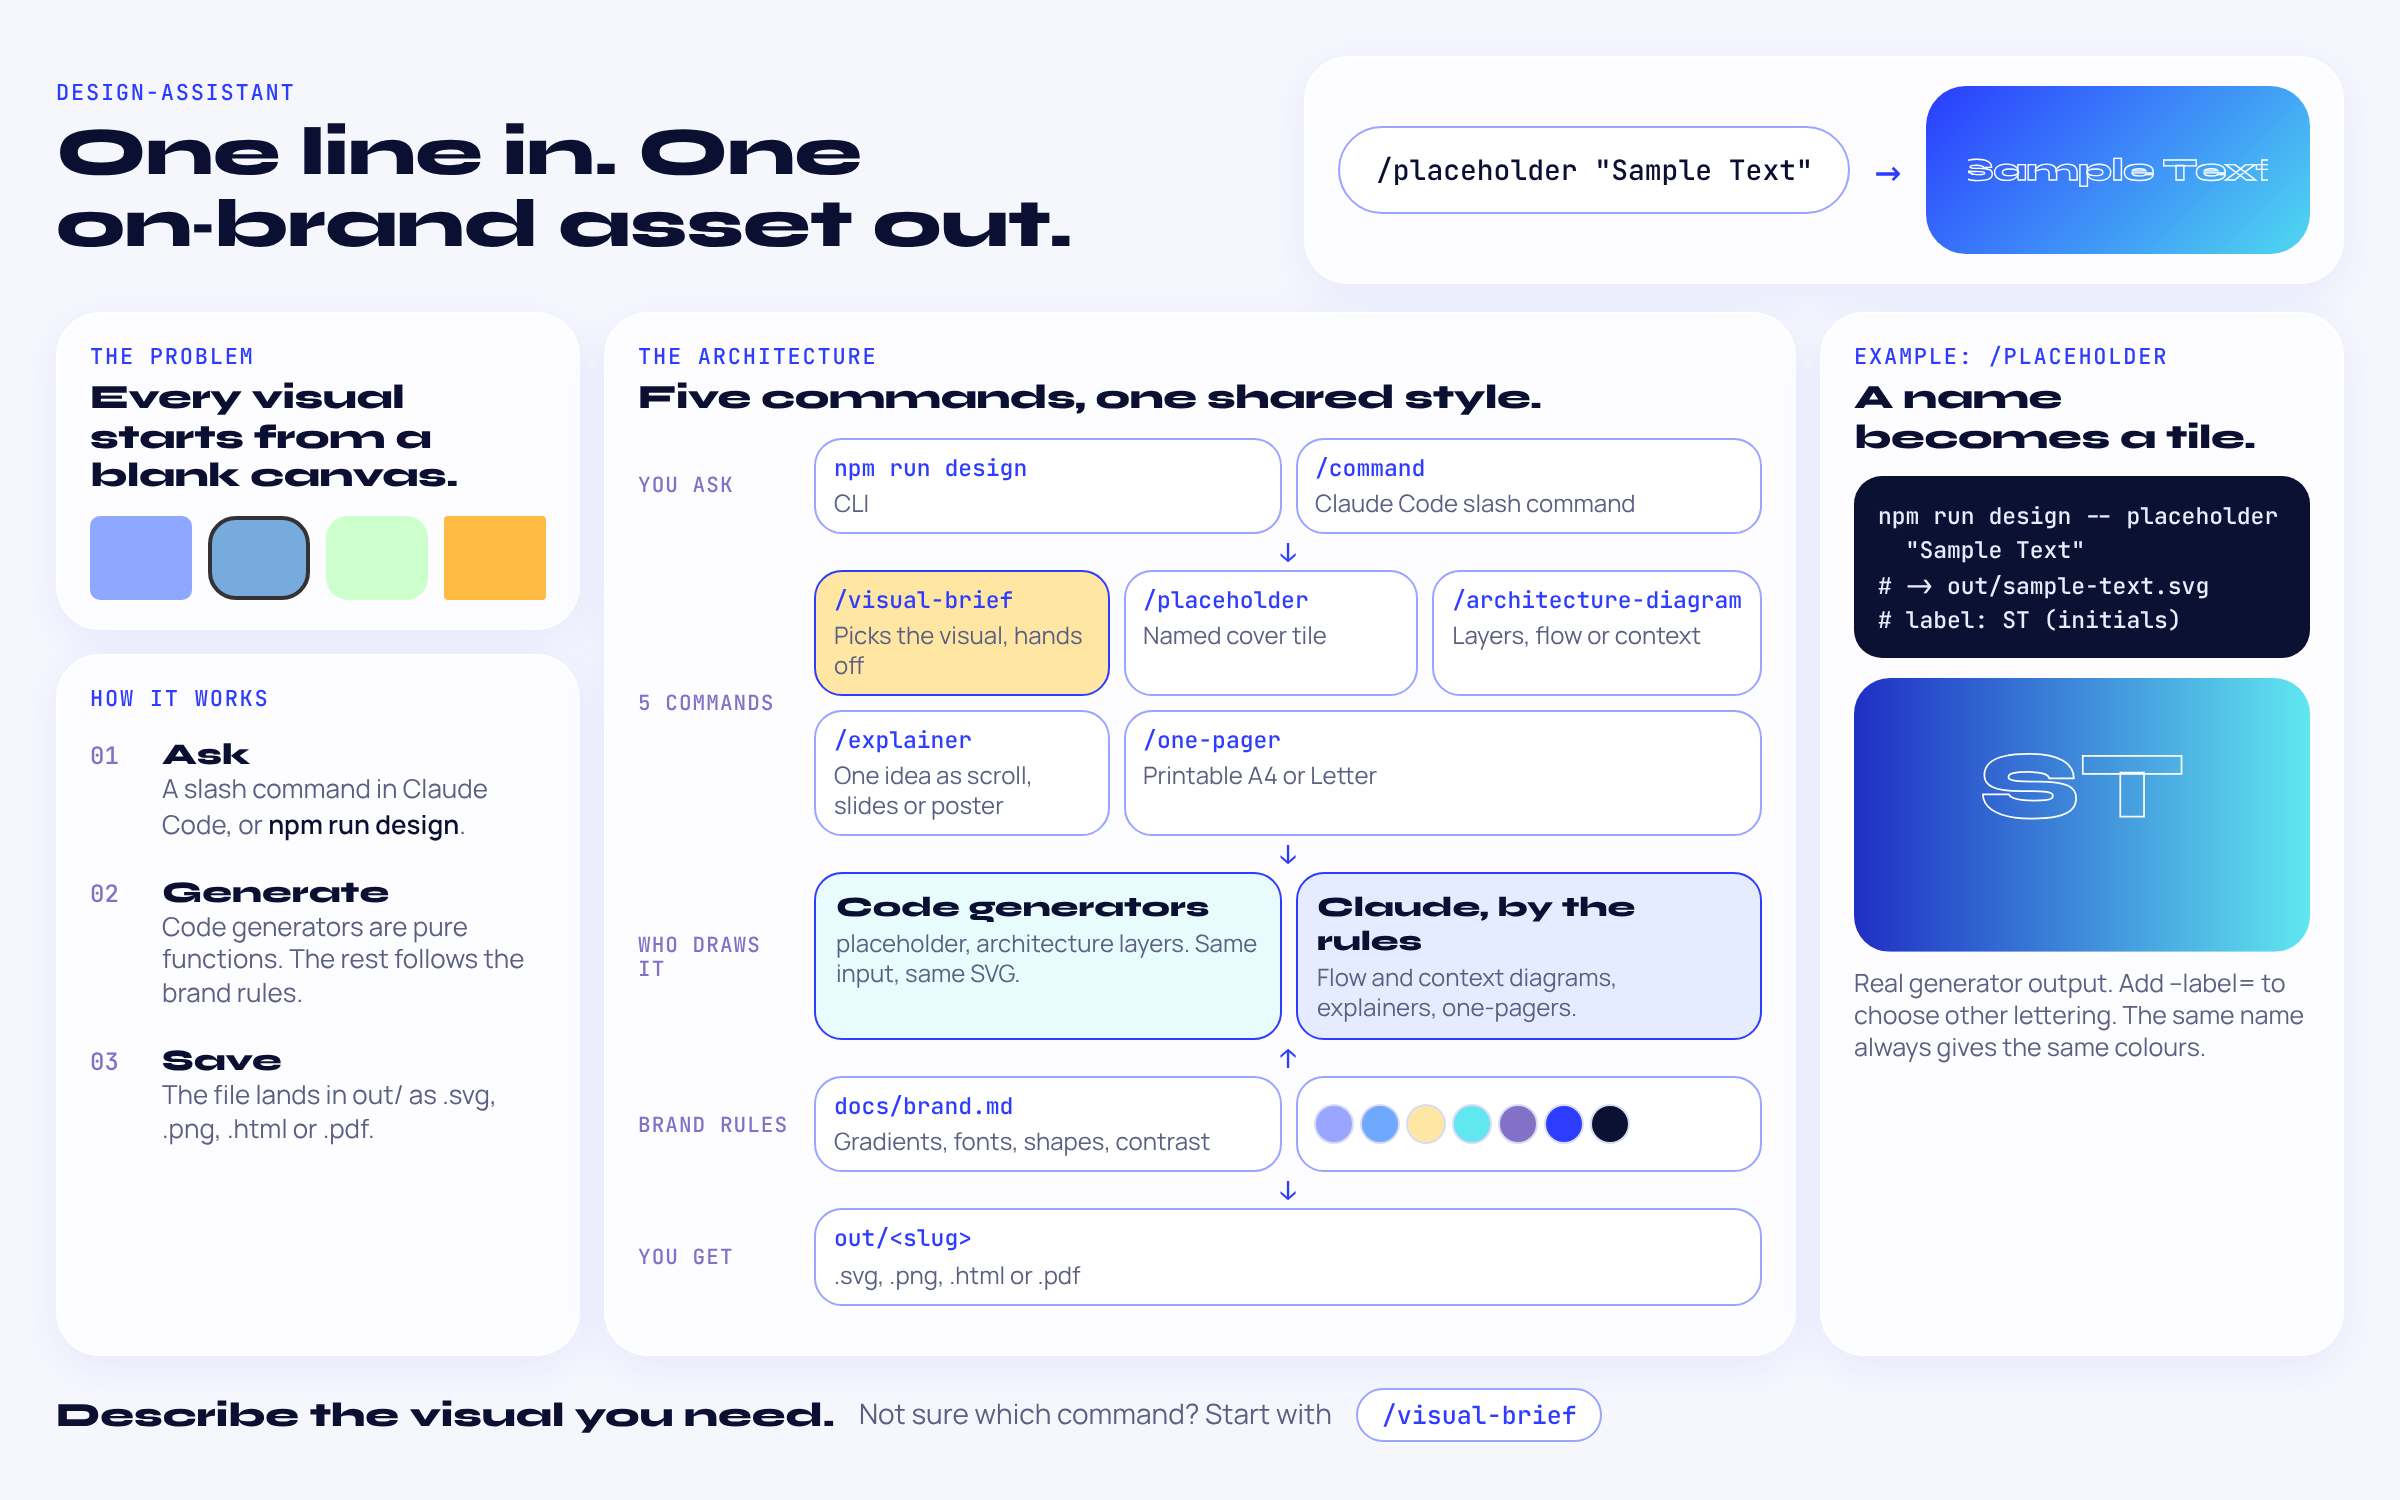
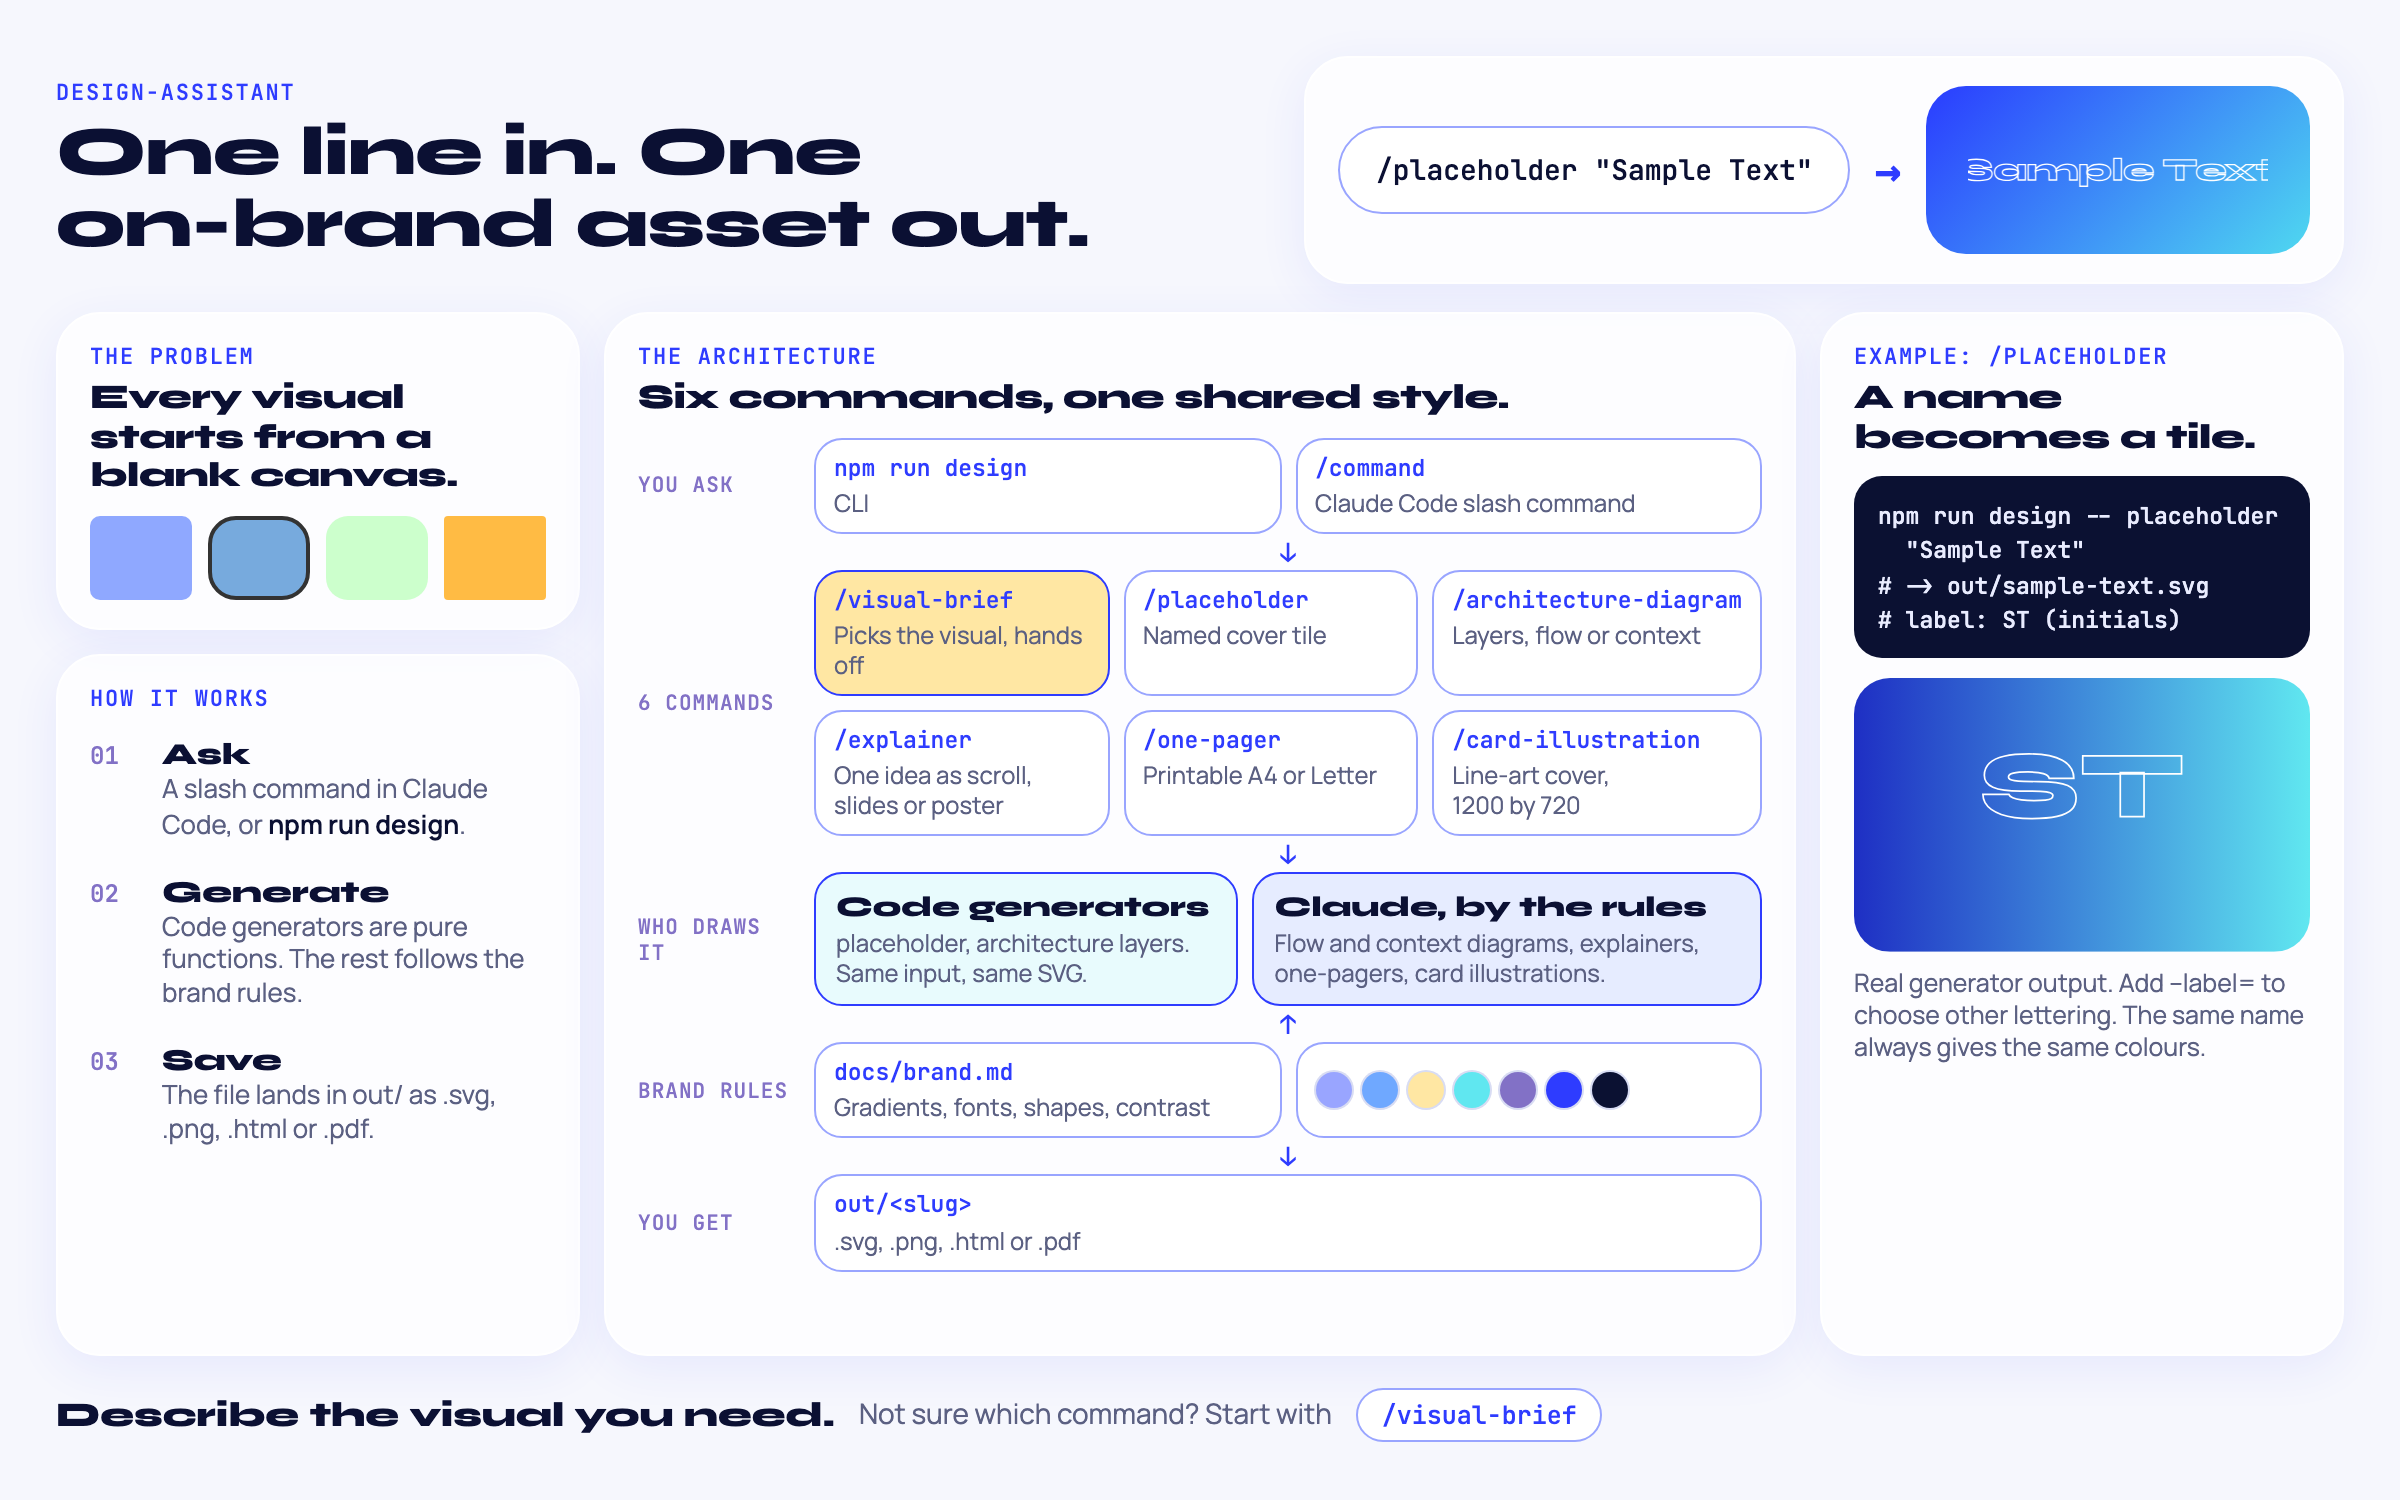
Docs: six commands, with /card-illustration on the card and the explainer
The card, its PNG and the explainer page said five commands and left out
/card-illustration. Both pages now show all six and list card
illustrations among what Claude draws by the rules. The explainer's lead
no longer says the tool draws in the portfolio's look, since the site has
its own design system.

README: the card's alt text says six, the Generators section is now
Commands with a section each for /visual-brief, /explainer and
/one-pager, and the Templates section names every folder in templates/.

diff --git a/docs/design-assistant-explainer.html b/docs/design-assistant-explainer.html
@@ -30,7 +30,7 @@ code{font:500 14px/1.5 'JetBrains Mono',monospace;background:#0b1132;color:#e9ec
 .ex{display:grid;grid-template-columns:1.1fr 1fr;gap:24px;align-items:center;margin-top:36px}
 .chips{display:flex;flex-wrap:wrap;gap:10px;margin-top:30px}
 .chips span{font:500 14px 'JetBrains Mono',monospace;background:#fff;border:1.5px solid var(--peri);border-radius:999px;padding:8px 16px}
-.row.five{display:grid;grid-template-columns:repeat(5,1fr)}
+.row.six{display:grid;grid-template-columns:repeat(3,1fr)}
 .ex>svg{border-radius:30px}
 .arch{margin-top:36px;display:grid;gap:12px}
 .layer{display:grid;grid-template-columns:150px 1fr;gap:16px;align-items:center;padding:18px 22px}
@@ -46,8 +46,8 @@ code{font:500 14px/1.5 'JetBrains Mono',monospace;background:#0b1132;color:#e9ec
 .eng small{color:var(--muted);font-size:14px;line-height:1.35;display:block;margin-top:4px}
 .sw{display:flex;gap:6px;align-items:center}.sw i{width:22px;height:22px;border-radius:50%;border:1.5px solid #fff;box-shadow:0 0 0 1px #d8dcf3}
 .down{text-align:center;color:var(--primary);font:500 16px 'JetBrains Mono',monospace;line-height:1}
-@media(max-width:1000px){.row.five{grid-template-columns:repeat(2,1fr)}}
-@media(max-width:560px){.row.five{grid-template-columns:1fr}}
+@media(max-width:1000px){.row.six{grid-template-columns:repeat(2,1fr)}}
+@media(max-width:560px){.row.six{grid-template-columns:1fr}}
 @media(max-width:760px){.layer{grid-template-columns:1fr;gap:10px}}
 @media(max-width:760px){section{padding:52px 0}.steps,.ex{grid-template-columns:1fr}body{font-size:17px}}
 </style>
@@ -58,7 +58,7 @@ code{font:500 14px/1.5 'JetBrains Mono',monospace;background:#0b1132;color:#e9ec
 <section>
   <div class="tag">design-assistant</div>
   <h1>One line in. One on-brand asset out.</h1>
-  <p class="lead">A personal tool that draws tiles and diagrams in the portfolio's look, from the command line or from Claude Code.</p>
+  <p class="lead">A personal tool that draws tiles, diagrams, covers, explainers and one-pagers in one brand style, from the command line or from Claude Code.</p>
   <div class="visual card">
     <svg viewBox="0 0 680 140" role="img" aria-label="A request line flows into a gradient tile">
       <defs><linearGradient id="g1" x1="0" y1="0" x2="1" y2="1"><stop offset="0" stop-color="#2a3cff"/><stop offset="1" stop-color="#4fd8f0"/></linearGradient></defs>
@@ -87,22 +87,23 @@ code{font:500 14px/1.5 'JetBrains Mono',monospace;background:#0b1132;color:#e9ec
 
 <section>
   <div class="tag">The architecture</div>
-  <h2>Five commands, one shared style.</h2>
+  <h2>Six commands, one shared style.</h2>
   <p class="lead">Every command reads the same brand rules. Code generators draw the repeatable shapes; Claude draws the rest.</p>
   <div class="arch">
     <div class="card layer"><b>You ask</b><div class="row"><div class="cmd"><code>npm run design</code><small>CLI</small></div><div class="cmd"><code>/command</code><small>Claude Code slash command</small></div></div></div>
     <div class="down" aria-hidden="true">&#8595;</div>
-    <div class="card layer"><b>5 commands</b><div class="row five">
-      <div class="cmd router"><code>/visual-brief</code><small>Picks the right visual, hands off to the next four</small></div>
+    <div class="card layer"><b>6 commands</b><div class="row six">
+      <div class="cmd router"><code>/visual-brief</code><small>Picks the right visual, hands off to that command</small></div>
       <div class="cmd"><code>/placeholder</code><small>Named cover tile</small></div>
       <div class="cmd"><code>/architecture-diagram</code><small>Layers, flow or context diagram</small></div>
       <div class="cmd"><code>/explainer</code><small>One idea as a scroll, slides or poster</small></div>
       <div class="cmd"><code>/one-pager</code><small>Printable A4 or Letter brief</small></div>
+      <div class="cmd"><code>/card-illustration</code><small>Line-art cover for a card, article or post, 1200 by 720</small></div>
     </div></div>
     <div class="down" aria-hidden="true">&#8595;</div>
     <div class="card layer"><b>Who draws it</b><div class="row">
       <div class="eng code"><strong>Code generators</strong><small>placeholder, architecture (stacked layers). Same input, same SVG.</small></div>
-      <div class="eng hand"><strong>Claude, by the rules</strong><small>Flow and context diagrams, explainers, one-pagers as HTML.</small></div>
+      <div class="eng hand"><strong>Claude, by the rules</strong><small>Flow and context diagrams, explainers and one-pagers as HTML, card illustrations as SVG.</small></div>
     </div></div>
     <div class="down" aria-hidden="true">&#8593;</div>
     <div class="card layer"><b>Brand rules</b><div class="row"><div class="cmd"><code>docs/brand.md</code><small>Gradients, fonts, shapes, contrast</small></div><div class="cmd sw" aria-label="Brand colours"><i style="background:#99a5ff"></i><i style="background:#6fa8ff"></i><i style="background:#ffe7a3"></i><i style="background:#60e7f0"></i><i style="background:#8271c6"></i><i style="background:#2e3cff"></i><i style="background:#0b1132"></i></div></div></div>

diff --git a/docs/design-assistant-readme-card.html b/docs/design-assistant-readme-card.html
@@ -68,19 +68,20 @@ pre{font:500 11.5px/1.5 'JetBrains Mono',monospace;background:#0b1132;color:#e9e
         <div><b>03</b><p><strong>Save</strong><span>The file lands in out/ as .svg, .png, .html or .pdf.</span></p></div>
       </div></div>
   </div>
-  <div class="card"><div class="tag">The architecture</div><h3>Five commands, one shared style.</h3>
+  <div class="card"><div class="tag">The architecture</div><h3>Six commands, one shared style.</h3>
     <div class="layer"><b>You ask</b><div class="row" style="grid-template-columns:1fr 1fr"><div class="c"><code>npm run design</code><small>CLI</small></div><div class="c"><code>/command</code><small>Claude Code slash command</small></div></div></div>
     <div class="dn">&darr;</div>
-    <div class="layer"><b>5 commands</b><div class="row" style="grid-template-columns:repeat(3,1fr)">
+    <div class="layer"><b>6 commands</b><div class="row" style="grid-template-columns:repeat(3,1fr)">
       <div class="c router"><code>/visual-brief</code><small>Picks the visual, hands off</small></div>
       <div class="c"><code>/placeholder</code><small>Named cover tile</small></div>
       <div class="c"><code>/architecture-diagram</code><small>Layers, flow or context</small></div>
       <div class="c"><code>/explainer</code><small>One idea as scroll, slides or poster</small></div>
-      <div class="c" style="grid-column:span 2"><code>/one-pager</code><small>Printable A4 or Letter</small></div></div></div>
+      <div class="c"><code>/one-pager</code><small>Printable A4 or Letter</small></div>
+      <div class="c"><code>/card-illustration</code><small>Line-art cover, 1200&nbsp;by&nbsp;720</small></div></div></div>
     <div class="dn">&darr;</div>
-    <div class="layer"><b>Who draws it</b><div class="row" style="grid-template-columns:1fr 1fr">
+    <div class="layer"><b>Who draws it</b><div class="row" style="grid-template-columns:1fr 1.2fr">
       <div class="eng code"><strong>Code generators</strong><small>placeholder, architecture layers. Same input, same SVG.</small></div>
-      <div class="eng hand"><strong>Claude, by the rules</strong><small>Flow and context diagrams, explainers, one-pagers.</small></div></div></div>
+      <div class="eng hand"><strong>Claude, by the rules</strong><small>Flow and context diagrams, explainers, one-pagers, card illustrations.</small></div></div></div>
     <div class="dn">&uarr;</div>
     <div class="layer"><b>Brand rules</b><div class="row" style="grid-template-columns:1fr 1fr"><div class="c"><code>docs/brand.md</code><small>Gradients, fonts, shapes, contrast</small></div><div class="c sw" aria-label="Brand colours"><i style="background:#99a5ff"></i><i style="background:#6fa8ff"></i><i style="background:#ffe7a3"></i><i style="background:#60e7f0"></i><i style="background:#8271c6"></i><i style="background:#2e3cff"></i><i style="background:#0b1132"></i></div></div></div>
     <div class="dn">&darr;</div>

diff --git a/README.md b/README.md
@@ -20,14 +20,18 @@ Generators write dependency-free SVG with text drawn as outlines from the brand 
 ## What it does
 One line in, one on-brand asset out. Six commands share one set of brand rules (`docs/brand.md`): code generators draw the repeatable shapes, and Claude draws the rest to the same rules.
 
-[![design-assistant at a glance: the problem, the five commands and who draws what, three steps, and a /placeholder example](docs/design-assistant-card.png)](docs/design-assistant-explainer.html)
+[![design-assistant at a glance: the problem, the six commands and who draws what, three steps, and a /placeholder example](docs/design-assistant-card.png)](docs/design-assistant-explainer.html)
 
 Open [`docs/design-assistant-explainer.html`](docs/design-assistant-explainer.html) in a browser for the full page.
 
 ## Design system
 The same style is the Design System **AH Visuals** in Claude, for decks, designs and pages made there. Its source is `design-system/`; how it is published and kept in step: `docs/design-system.md`. It covers everything outside annahovhannisyan.com, which has its own design system in the Portfolio repo.
 
-## Generators
+## Commands
+
+### visual-brief
+Start here when you know the content but not the format. Claude recommends the one visual that fits (an architecture diagram, an explainer, a one-pager, a card illustration or a placeholder), says why in two sentences, and runs that command once you agree.
+In Claude Code: `/visual-brief "How Atlas routes support tickets, for new team members"`.
 
 ### placeholder
 A gradient card with the name's initials or acronym drawn as thin outlined lettering (Syne ExtraBold),
@@ -64,8 +68,17 @@ Claude draws a 1200x720 SVG cover for a project card, an article or a post: whit
 The command keeps the subject inside the part of the card that stays visible (above the glass text panel, clear of the corner badges, inside the phone crop).
 In Claude Code: `/card-illustration "GTM Engine: one shared AI skill library for GTM teams"` or `/card-illustration "Company Brain" --style=recolor --source=old.svg`. Examples: `templates/thumbnail-illustrations/`.
 
+### explainer
+Claude builds one self-contained HTML page that teaches one idea, as a scroll page, slides with arrow-key navigation, or a 1200x1600 poster. A poster can be exported to PNG, and any explainer to PDF, with Playwright. Statistics and quotes it has no source for are marked `[TODO: source]`, never invented.
+In Claude Code: `/explainer "How the placeholder picks its colours"` or `/explainer "<idea>" --format=poster --audience=designers`. `docs/design-assistant-explainer.html` is a scroll explainer.
+
+### one-pager
+Claude builds a one-page brief as print-ready HTML (A4 or Letter) and exports a PDF with Playwright, checking that it fits exactly one page. Types: case study, project brief, proposal, profile and comparison, which starts from `templates/one-pager/comparison.html`. Facts it still needs are marked `[TODO]`.
+In Claude Code: `/one-pager "Orbit: Field service platform" --type=project-brief` or `/one-pager "<subject>" --type=comparison --size=letter`.
+
 ## Templates
 `templates/architecture/` holds architecture specs. `templates/blue-backgrounds/` holds the hero slide template (1920x1080) with its six grounds, light (the primary one) and five dark blues, and a PNG preview of each.
+`templates/thumbnail-illustrations/` holds example card illustrations: white line art (`b/`), a version on the light ground (`light/`) and the one chosen for the site (`final/`); follow `/card-illustration`, not these files, for placement and stroke width. `templates/art/` holds conceptual cover art, each piece with a reference image and a deterministic `generate.mjs`. `templates/one-pager/` and `templates/mermaid/` are described under Reference templates below.
 
 ## Ideas
 See `ROADMAP.md` for the commands and skills to add next.
